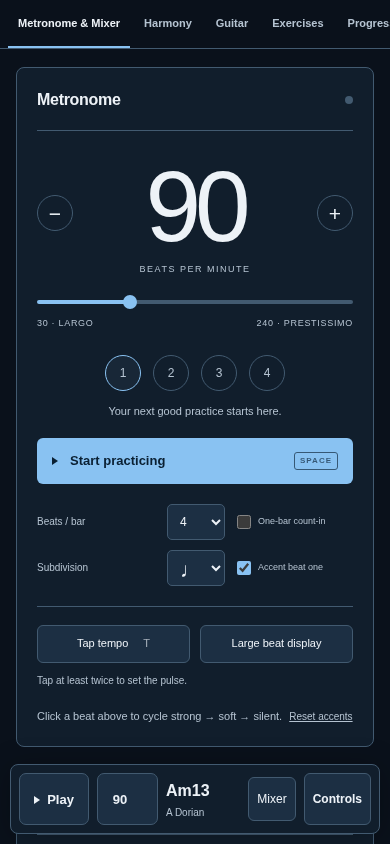
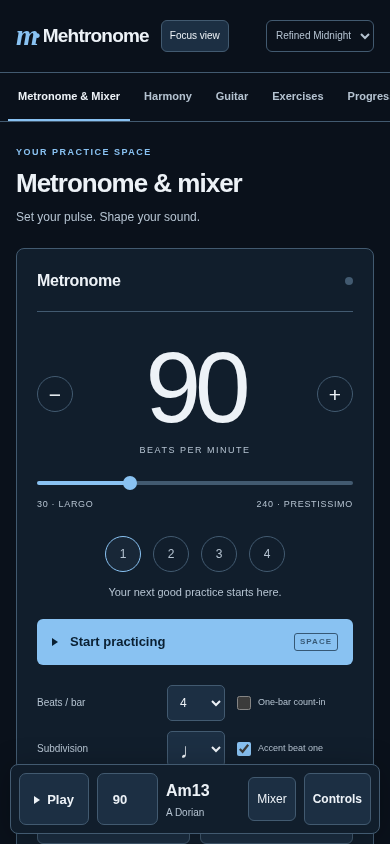
Replace bright colour study with Evergreen and capitalise Mehtronome

diff --git a/web/public/colour-preview/index.html b/web/public/colour-preview/index.html
@@ -8,21 +8,22 @@
 </style>
 </head>
 <body><main>
-<header><div><div class="eyebrow">MEHTRONOME · COLOUR STUDIES</div><h1>Same layout. Three colour directions.</h1><p>Compare each palette on the mixer, chord graphics and fretboard. The app’s live colours are unchanged while we review these options.</p></div><a href="../">Open the current app ↗</a></header>
+<header><div><div class="eyebrow">MEHTRONOME · COLOUR STUDIES</div><h1>Same layout. Three dark colour directions.</h1><p>Compare each palette on the mixer, chord graphics and fretboard. The app’s live colours are unchanged while we review these options.</p></div><a href="../">Open the current app ↗</a></header>
 <div id="palette-options" class="palette-options" role="group" aria-label="Colour direction"></div>
 <div class="toolbar"><div class="view-options" role="group" aria-label="Preview view"><button type="button" data-view="metronome" aria-pressed="true">Metronome &amp; mixer</button><button type="button" data-view="harmony" aria-pressed="false">Chord graphics</button><button type="button" data-view="guitar" aria-pressed="false">Fretboard</button><button type="button" data-view="phone" aria-pressed="false">Phone</button></div><a id="full-size" href="midnight-metronome.png" target="_blank" rel="noopener">Open image at full size ↗</a></div>
 <div class="selection"><div aria-live="polite"><h2 id="selection-title">Refined Midnight</h2><p id="selection-description">Deep navy, cool blue controls and a restrained sky-blue accent.</p></div><div id="swatches" class="swatches" aria-label="Palette surface colours"></div></div>
 <figure id="preview-frame" data-view="metronome"><img id="preview-image" src="midnight-metronome.png" alt="Refined Midnight: metronome and mixer colour study"></figure>
 <div class="legend"><b>Musical meaning stays consistent:</b><span><i id="root-swatch"></i>Root</span><span><i id="chord-swatch"></i>Chord tone</span><span><i class="modal"></i>Modal colour note</span></div>
 <p class="note">These are screenshots of the colour studies, using the implemented layout. Refined Midnight is my recommended starting point. Text, secondary labels and primary-action contrast have been checked for all three proposed palettes.</p>
-<noscript><p>Open a colour study directly:</p><a href="midnight-metronome.png">Refined Midnight</a> · <a href="plum-metronome.png">Plum Ink</a> · <a href="paper-metronome.png">Warm Ivory</a> · <a href="current-metronome.png">Current Midnight</a></noscript>
+<noscript><p>Open a colour study directly:</p><a href="midnight-metronome.png">Refined Midnight</a> · <a href="plum-metronome.png">Plum Ink</a> · <a href="evergreen-metronome.png">Evergreen</a> · <a href="current-metronome.png">Current Midnight</a></noscript>
 </main>
 <script type="module">
-const response=await fetch('./palettes.json');
+const response=await fetch('./palettes.json?v=evergreen-20261025');
 const palettes=await response.json();
 palettes.push({id:'current',label:'Current Midnight',description:'The existing live Midnight colours, for a direct comparison.',colors:{page:'#09111f',panel:'#121e32',field:'#182840',line:'#2b3d55',ink:'#edf2f7',muted:'#9bacbf',accent:'#74cde8','on-accent':'#071d29',root:'#e8b675',chord:'#68c9c0',modal:'#dcafff'}});
 const params=new URLSearchParams(location.search);
-let palette=palettes.find(item=>item.id===params.get('palette'))||palettes[0];
+const requestedPalette=params.get('palette')==='paper'?'evergreen':params.get('palette');
+let palette=palettes.find(item=>item.id===requestedPalette)||palettes[0];
 const viewNames={metronome:'Metronome & mixer',harmony:'Chord graphics',guitar:'Fretboard',phone:'Phone'};
 let view=Object.hasOwn(viewNames,params.get('view'))?params.get('view'):'metronome';
 const options=document.querySelector('#palette-options');
@@ -30,7 +31,7 @@ for(const item of palettes){const button=document.createElement('button');button
 for(const button of document.querySelectorAll('button[data-view]'))button.addEventListener('click',()=>{view=button.dataset.view;render();});
 function render(){
 for(const [role,color] of Object.entries(palette.colors))document.documentElement.style.setProperty(`--${role}`,color);
-document.documentElement.style.colorScheme=palette.id==='paper'?'light':'dark';
+document.documentElement.style.colorScheme='dark';
 for(const button of document.querySelectorAll('button[data-palette]'))button.setAttribute('aria-pressed',String(button.dataset.palette===palette.id));
 for(const button of document.querySelectorAll('button[data-view]'))button.setAttribute('aria-pressed',String(button.dataset.view===view));
 document.querySelector('#selection-title').textContent=palette.label;

diff --git a/web/src/main.ts b/web/src/main.ts
@@ -42,7 +42,7 @@ function sequencePatternOptions() {
 }
 const app = document.querySelector<HTMLDivElement>('#app')!;
 app.innerHTML = `
-<header><a class="brand" href="./" aria-label="Mehtronome home"><span class="brand-mark">m<span>·</span></span>mehtronome</a><span class="header-note">A little rhythm. A little harmony.</span><div class="theme-controls"><button id="focus-view" class="practice-button" aria-pressed="false">Focus view</button><label class="theme-picker">Theme<select id="palette" aria-label="Page theme"><option value="light">Original light</option><option value="dark">Original dark</option><option value="midnight">Midnight Studio</option><option value="paper">Warm Paper</option><option value="plum">Plum Session</option><option value="slate">Slate Minimal</option></select></label><button id="theme" class="theme-toggle" aria-label="Dark mode" aria-pressed="false">Dark mode</button></div></header>
+<header><a class="brand" href="./" aria-label="Mehtronome home"><span class="brand-mark">m<span>·</span></span>Mehtronome</a><span class="header-note">A little rhythm. A little harmony.</span><div class="theme-controls"><button id="focus-view" class="practice-button" aria-pressed="false">Focus view</button><label class="theme-picker">Theme<select id="palette" aria-label="Page theme"><option value="light">Original light</option><option value="dark">Original dark</option><option value="midnight">Midnight Studio</option><option value="paper">Warm Paper</option><option value="plum">Plum Session</option><option value="slate">Slate Minimal</option></select></label><button id="theme" class="theme-toggle" aria-label="Dark mode" aria-pressed="false">Dark mode</button></div></header>
 <nav class="workspace-nav" aria-label="Workspace navigation">
   <div class="workspace-nav-inner">
     <span class="workspace-nav-label">Workspace</span>
